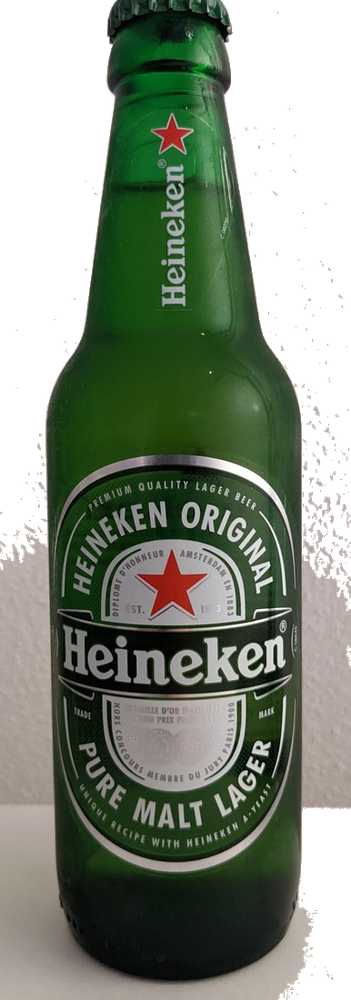
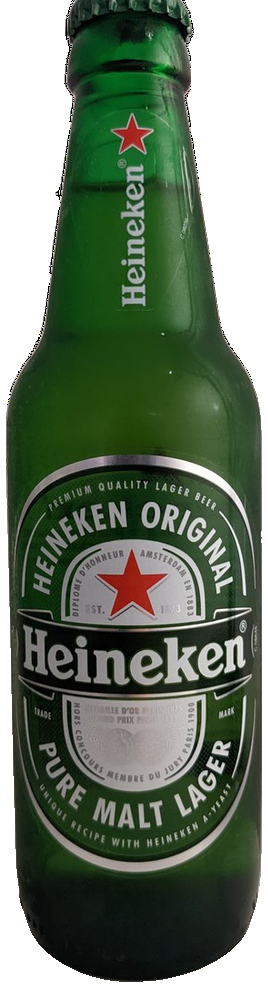
Cut bottle backgrounds out of every /bar/ product photo.
Replace studio and table backdrops with transparent PNG sprites so whiskey, wine, beer, and tequila sit on the wood shelves without a white or black box. Wine and three tequila shots move from JPG to PNG; YAML paths and shelf CSS follow.

diff --git a/assets/css/bar.css b/assets/css/bar.css
@@ -294,6 +294,7 @@ html:not(.is-signed-in) .bar-stars {
   flex: 0 0 auto;
   width: 5.8rem;
   margin: 0;
+  background: transparent;
   transition: opacity 0.28s ease, filter 0.28s ease;
 }
 
@@ -332,6 +333,10 @@ html:not(.is-signed-in) .bar-stars {
   width: auto;
   max-width: 5.1rem;
   object-fit: contain;
+  background: transparent;
+  background-color: transparent;
+  border: 0;
+  box-shadow: none;
   filter: drop-shadow(0 10px 12px rgba(0, 0, 0, 0.45));
   transform-origin: 70% 18%;
   transition: transform 0.38s cubic-bezier(0.22, 1, 0.36, 1), filter 0.28s ease;
